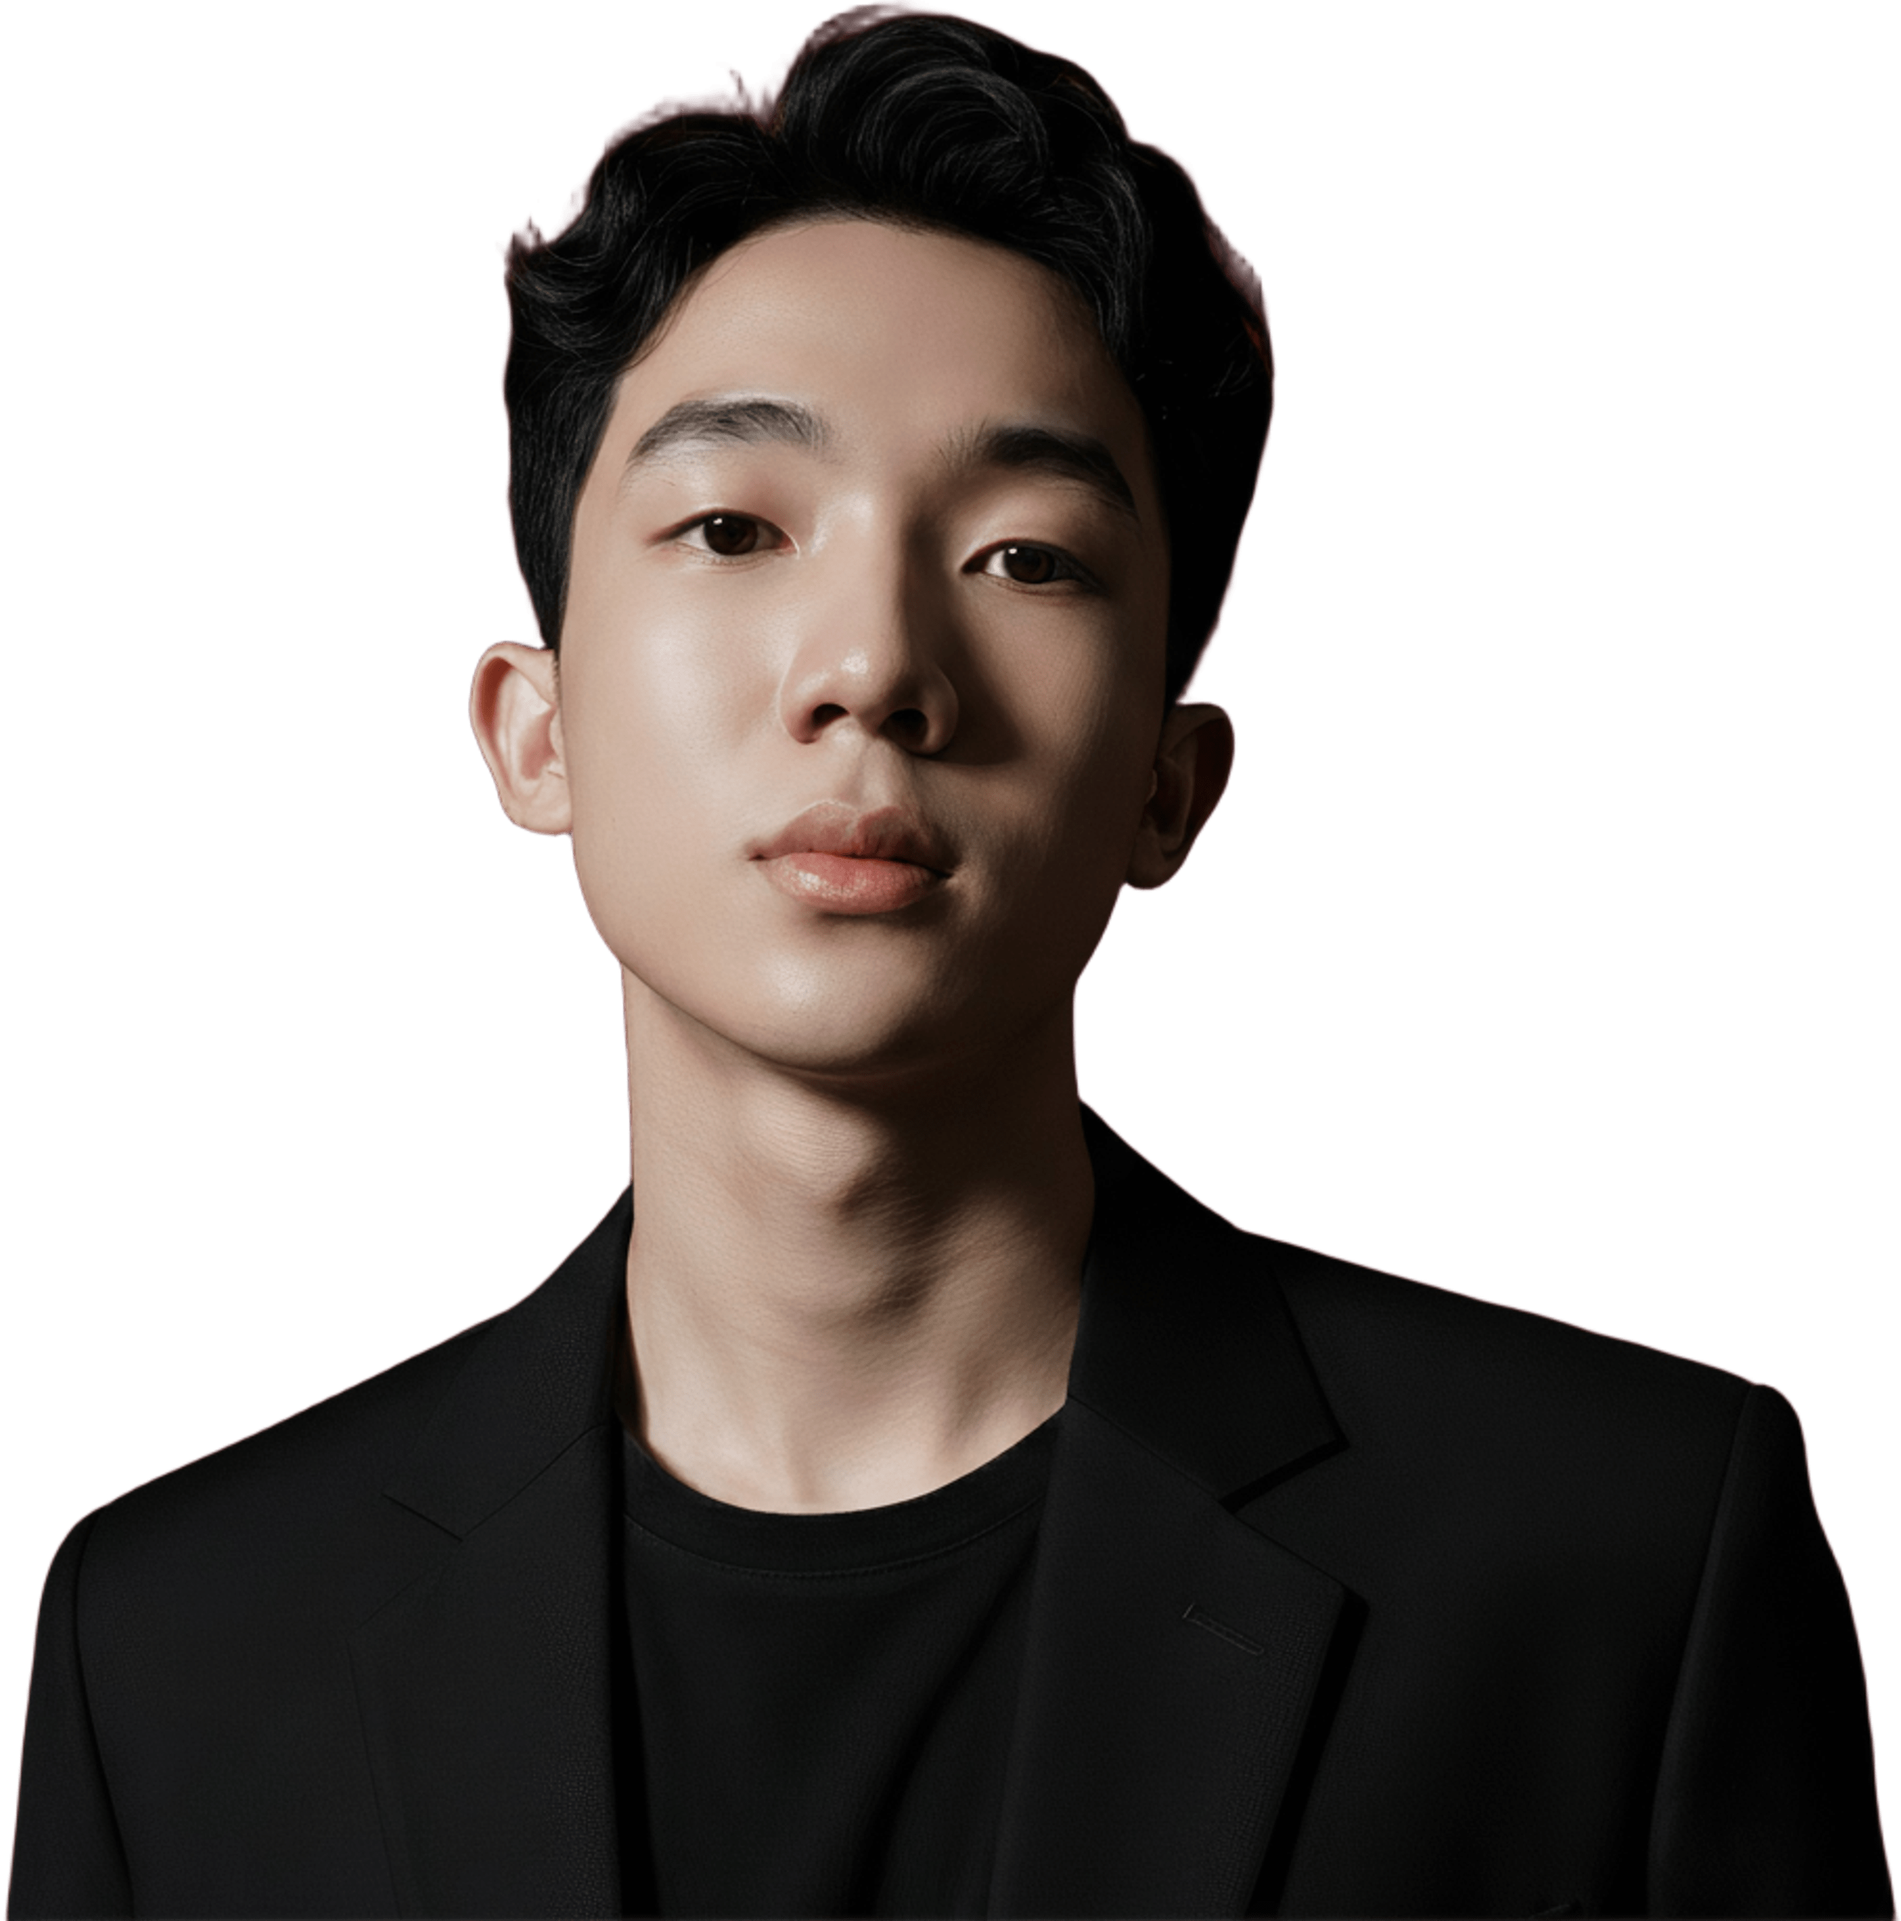
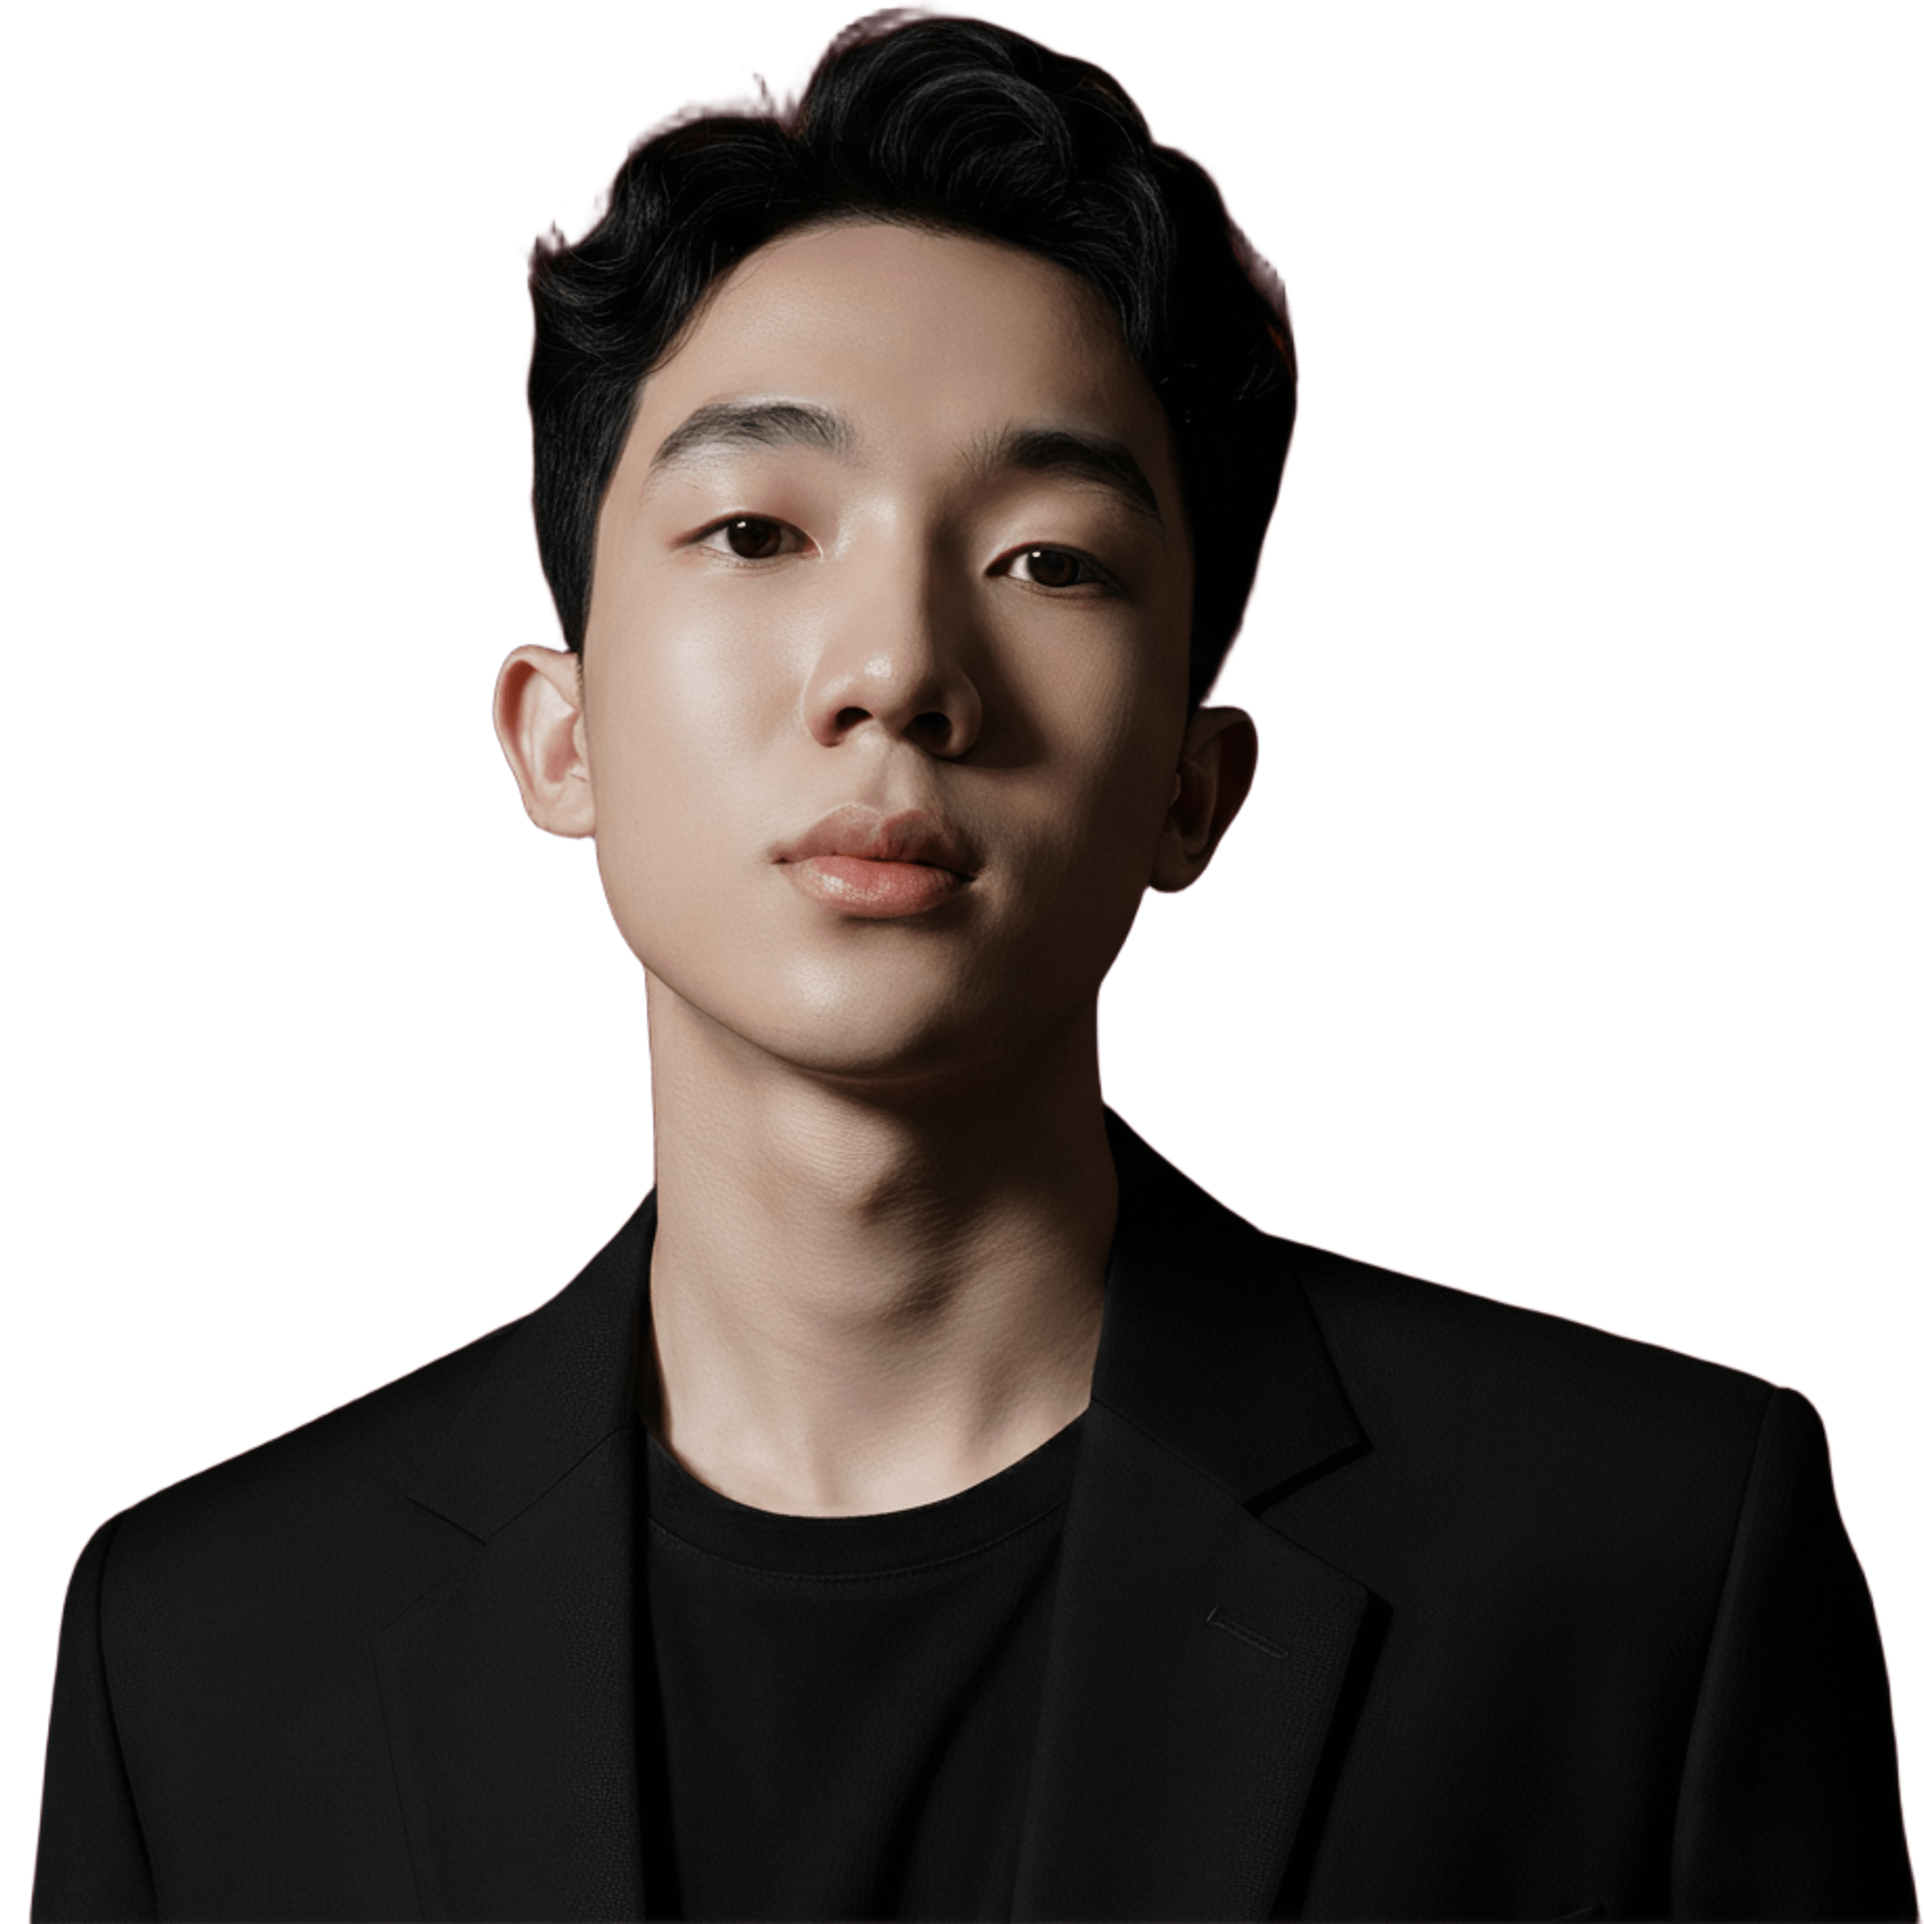
feat:: add ping route

diff --git a/server/index.js b/server/index.js
@@ -64,7 +64,12 @@ const resend = new Resend(process.env.RESEND_API_KEY)
 const FROM   = process.env.RESEND_FROM || 'inbox-resume@finsightagent.tech'
 const TO     = process.env.RESEND_TO   || 'phanminhtai23@gmail.com'
 
-app.use(cors({ origin: ['http://localhost:5173','http://localhost:5174','http://localhost:5175'], credentials: true }))
+const allowedOrigins = (process.env.CORS_ORIGIN || 'http://localhost:5173,http://localhost:5174,http://localhost:5175')
+  .split(',')
+  .map(origin => origin.trim())
+  .filter(Boolean)
+
+app.use(cors({ origin: allowedOrigins, credentials: true }))
 app.use(express.json())
 app.use('/uploads', express.static(UPLOADS_DIR))
 
@@ -290,6 +295,10 @@ app.delete('/api/content/:section/:id', (req, res) => {
 })
 
 app.get('/api/health', (_, res) => res.json({ ok: true }))
+
+app.get('/api/ping', (_, res) => {
+  res.json({ ok: true, message: 'pong', uptime: process.uptime() })
+})
 
 app.get('/api/storage', (_, res) => {
   try {

diff --git a/src/api.js b/src/api.js
@@ -1,4 +1,4 @@
-const BASE = '/api'
+const BASE = import.meta.env.VITE_API_BASE_URL || '/api'
 
 async function req(method, path, body) {
   const opts = { method, headers: {} }
